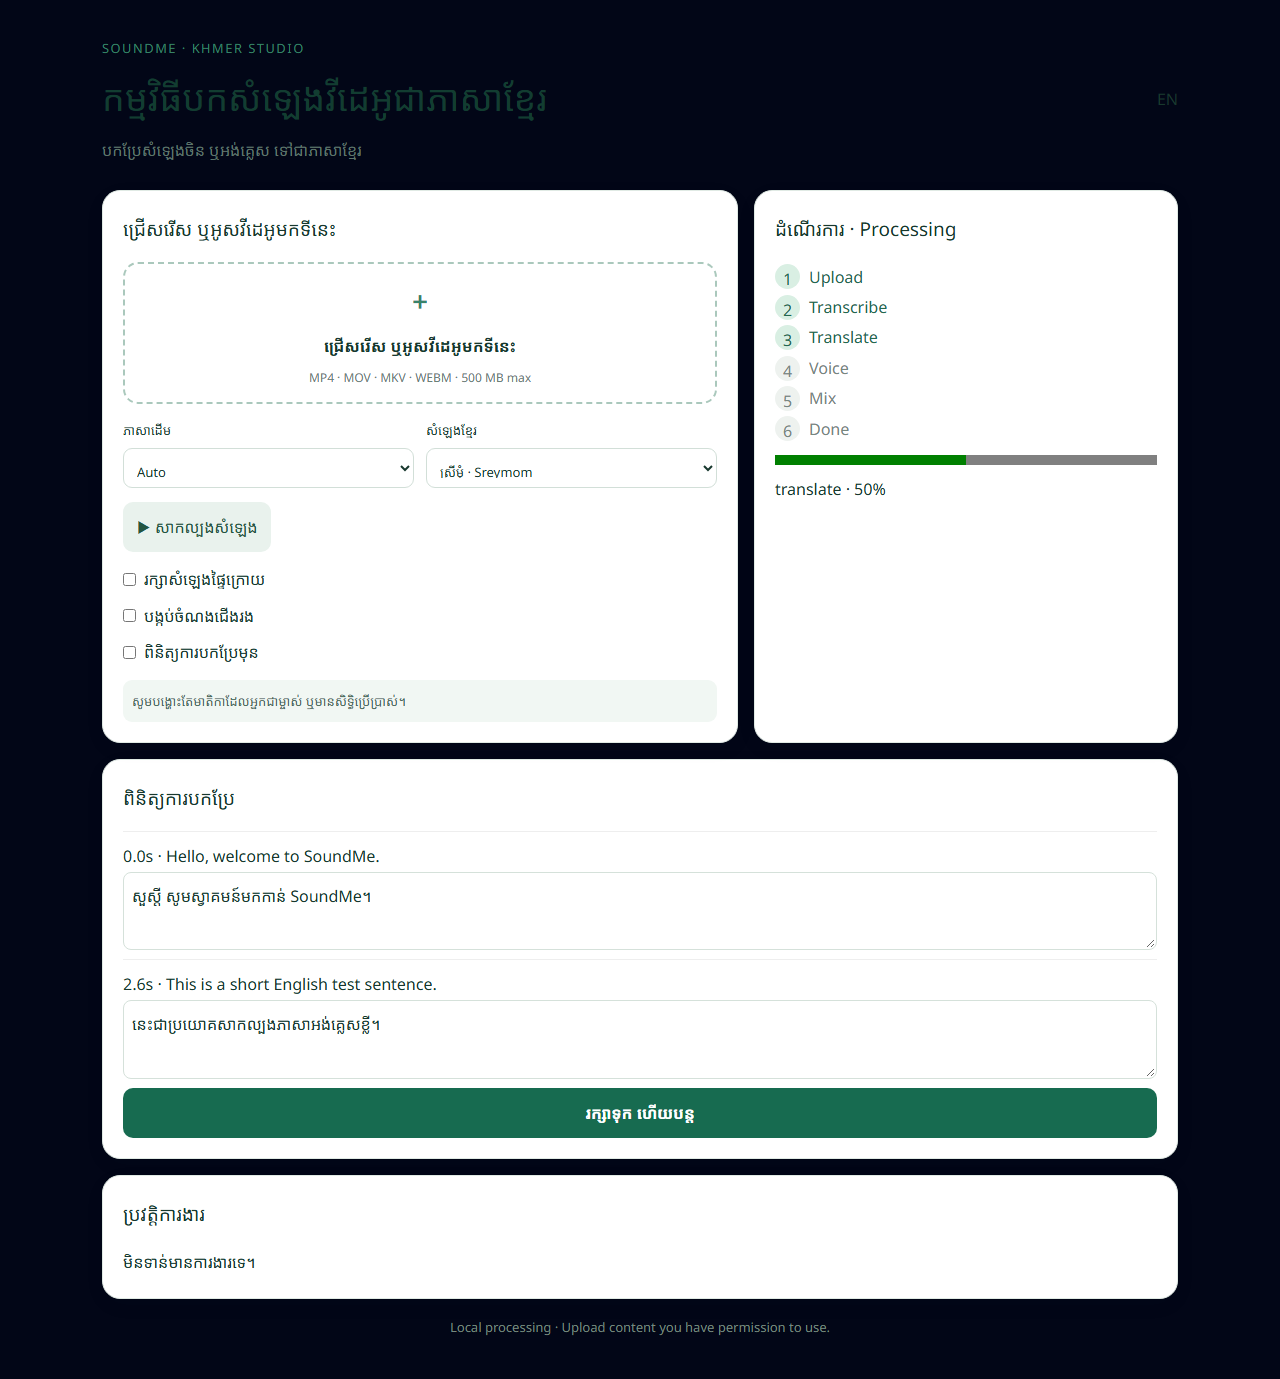
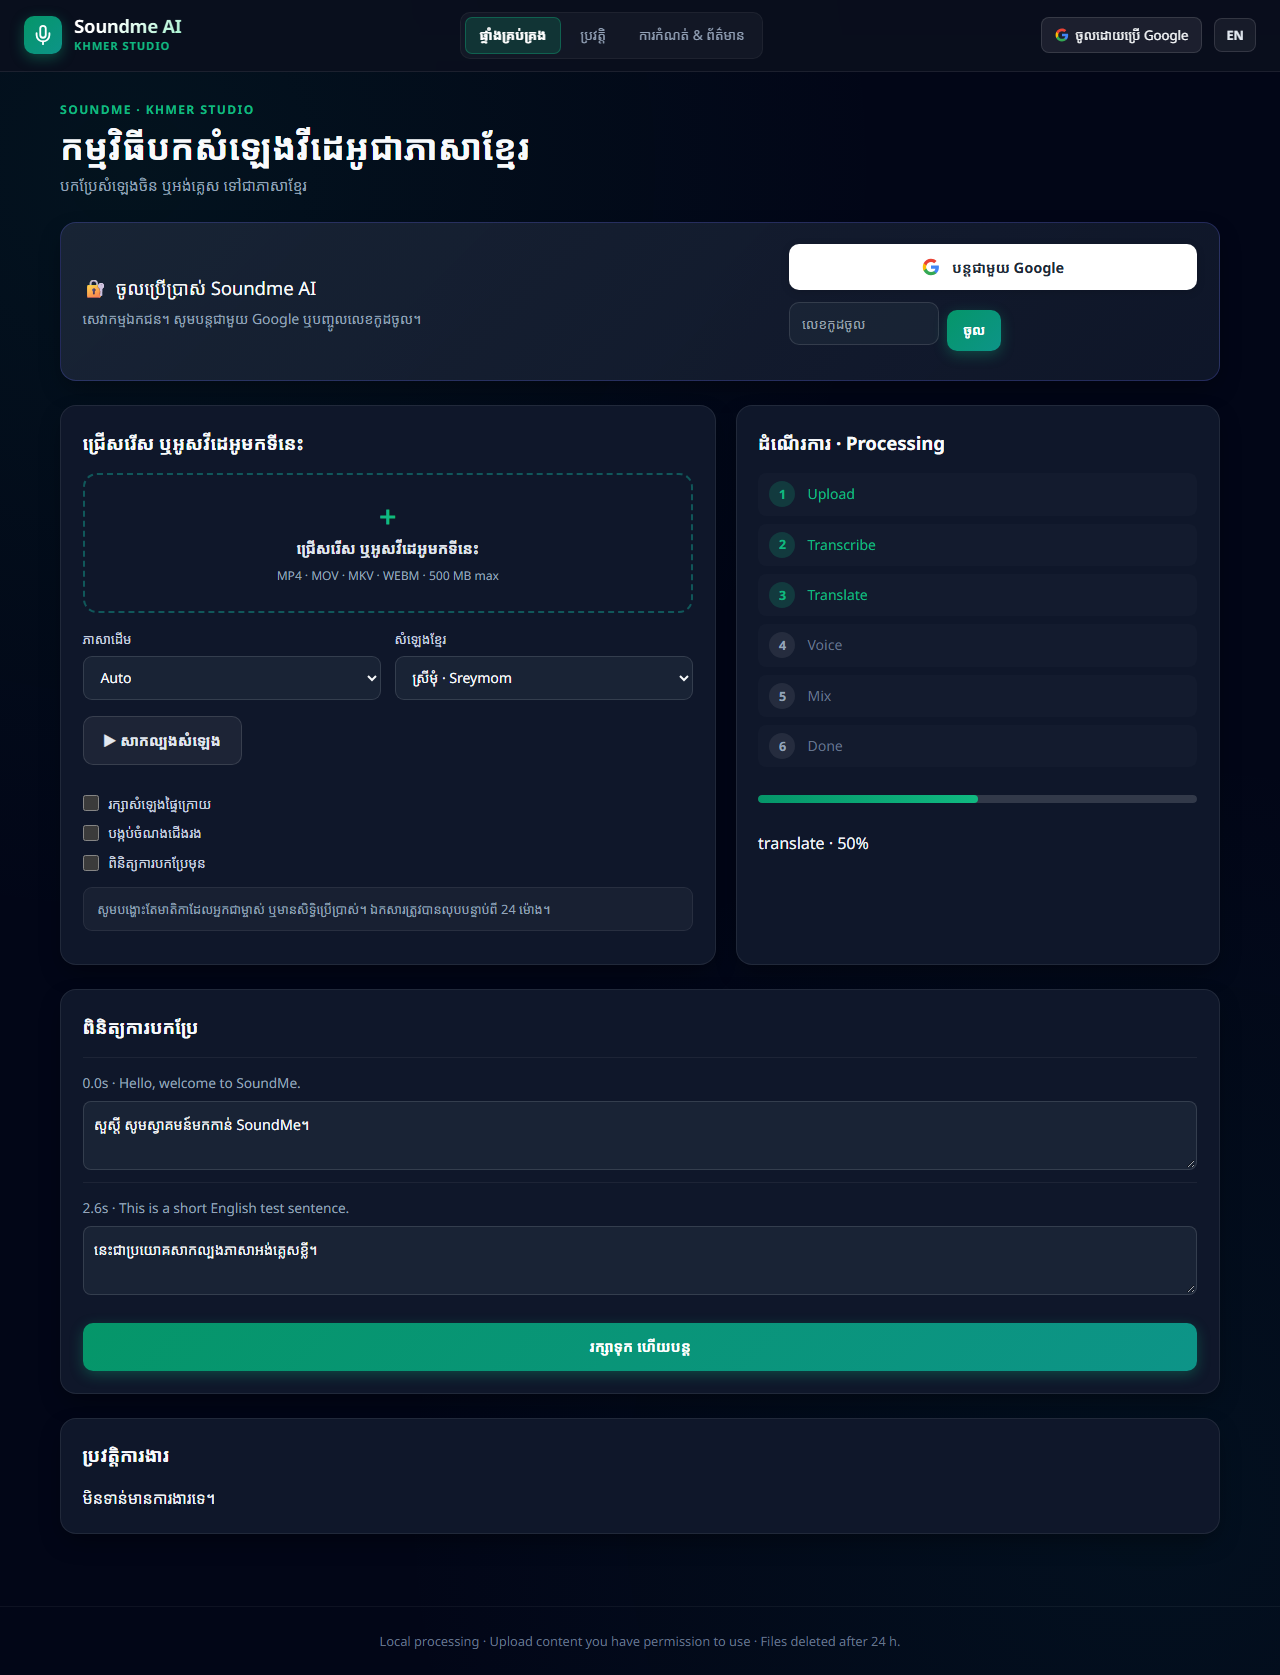
feat(frontend): UI updates, i18n strings, upload dropzone improvements, demo verification data

diff --git a/frontend/src/App.jsx b/frontend/src/App.jsx
@@ -5,6 +5,11 @@ const A = '/api';
 
 // ── Auth token management ──────────────────────────────────────────────────
 function getToken() {
+  // Desktop-local mode: never use a token inside the Electron desktop shell.
+  if (typeof window !== 'undefined' && window.soundmeDesktop?.isDesktop) {
+    try { localStorage.removeItem('soundme_token'); } catch (_) {}
+    return '';
+  }
   try {
     const params = new URLSearchParams(window.location?.search || '');
     const urlToken = params.get('token');
@@ -23,7 +28,8 @@ function getToken() {
 let TOKEN = getToken();
 
 function authHeaders(extra = {}) {
-  if (TOKEN) return { Authorization: `Bearer ${TOKEN}`, 'X-Access-Token': TOKEN, ...extra };
+  const isDesktop = typeof window !== 'undefined' && window.soundmeDesktop?.isDesktop;
+  if (TOKEN && !isDesktop) return { Authorization: `Bearer ${TOKEN}`, 'X-Access-Token': TOKEN, ...extra };
   return extra;
 }
 
@@ -124,9 +130,12 @@ export default function App() {
   const [submitting, setSubmitting] = useState(false);
   const [pendingUpload] = useState(() => localStorage.getItem('pendingUploadId'));
   const [userSession, setUserSession] = useState(null);
-  const [noToken, setNoToken] = useState(() => !TOKEN);
+  // Desktop-local mode: treat as always authenticated (noToken starts false).
+  // The /auth/me probe below also sets noToken=false when backend confirms desktop:local.
+  const [noToken, setNoToken] = useState(false);
   const [videoBlobUrls, setVideoBlobUrls] = useState({});
-  const [tokenInput, setTokenInput] = useState('');
+  const [maxUploadMb, setMaxUploadMb] = useState(() => Number(import.meta.env.VITE_MAX_UPLOAD_SIZE_MB || 2048));
+  const maxUploadBytes = maxUploadMb * 1024 * 1024;
 
   const t = (key) => strings[key]?.[en ? 'en' : 'km'] || key;
 
@@ -163,14 +172,17 @@ export default function App() {
         }
       })
       .catch(() => {});
+
+    fetch('/api/health')
+      .then((r) => r.json())
+      .then((d) => {
+        if (d && d.max_upload_mb) setMaxUploadMb(d.max_upload_mb);
+      })
+      .catch(() => {});
   }, [en]);
 
   function submitToken() {
-    const v = tokenInput.trim();
-    if (!v) return;
-    TOKEN = v;
-    localStorage.setItem('soundme_token', v);
-    setNoToken(false);
+    // No-op in desktop-local mode. Kept so existing test references don't break.
   }
 
   // ── Load active job and history on mount ───────────────────────────────────
@@ -180,7 +192,14 @@ export default function App() {
       J({ id });
     }
     authFetch(A + '/jobs')
-      .then((r) => r.json())
+      .then(async (r) => {
+        if (r.status === 401) {
+          // In desktop-local mode the backend never returns 401 for loopback requests.
+          // For web mode: silently return empty jobs rather than forcing a login screen.
+          return [];
+        }
+        return r.json();
+      })
       .then((data) => {
         if (Array.isArray(data)) {
           H(data);
@@ -234,9 +253,29 @@ export default function App() {
 
     const poll = () =>
       authFetch(`${A}/jobs/${job.id}`)
-        .then((r) => r.json())
-        .then(applyJob)
-        .catch(() => {});
+        .then((r) => {
+          const status = r && typeof r.status === 'number' ? r.status : undefined;
+          if (status === 404) {
+            // Job no longer exists (e.g. TTL cleanup or server restart).
+            // Stop the endless loading/polling loop instead of silently ignoring it.
+            if (localStorage.getItem('activeJob') === job.id) {
+              localStorage.removeItem('activeJob');
+            }
+            if (live) J(null);
+            return null;
+          }
+          if (status !== undefined && status >= 400) {
+            throw new Error(`HTTP ${status}`);
+          }
+          if (r && r.ok === false && status === undefined) {
+            throw new Error('Request failed');
+          }
+          return r.json().catch(() => { throw new Error('Invalid JSON response'); });
+        })
+        .then((d) => { if (d) applyJob(d); })
+        .catch((e) => {
+          if (live && e?.message) X(e.message);
+        });
 
     const startPolling = () => {
       if (timer || !live || finished) return;
@@ -316,10 +355,10 @@ export default function App() {
       X(en ? 'Choose an MP4, MOV, MKV, AVI, or WEBM video.' : (t('invalid_video') + ' (Choose an MP4, MOV, MKV, AVI, or WEBM video.)'));
       return;
     }
-    if (f.size > 500 * 1024 * 1024) {
+    if (f.size > maxUploadBytes) {
       let actualMb = (f.size / (1024 * 1024)).toFixed(1);
-      let kmMsg = `ទំហំឯកសារ ${actualMb} MB លើសពីកម្រិតកំណត់ 500 MB។`;
-      let enMsg = `File size (${actualMb} MB) exceeds the 500 MB limit.`;
+      let kmMsg = `ទំហំឯកសារ ${actualMb} MB លើសពីកម្រិតកំណត់ ${maxUploadMb} MB។`;
+      let enMsg = `File size (${actualMb} MB) exceeds the ${maxUploadMb} MB limit.`;
       X(`${kmMsg} (${enMsg})`);
       return;
     }
@@ -408,15 +447,13 @@ export default function App() {
 
   function upload() {
     if (submitting) return;
-    if (noToken && !userSession?.authenticated) {
-      X(en ? 'Please sign in with Google or enter an access code first.' : 'សូមចូលដោយប្រើ Google ឬបញ្ចូលលេខកូដចូលជាមុនសិន។');
-      return;
-    }
+    // Desktop-local mode: always proceed (noToken is always false).
+    // Web mode: the /auth/me probe ensures noToken is false when authenticated.
     if (!file || file.size === 0) { X(t('file_empty')); return; }
-    if (file.size > 500 * 1024 * 1024) {
+    if (file.size > maxUploadBytes) {
       let actualMb = (file.size / (1024 * 1024)).toFixed(1);
-      let kmMsg = `ទំហំឯកសារ ${actualMb} MB លើសពីកម្រិតកំណត់ 500 MB។`;
-      let enMsg = `File size (${actualMb} MB) exceeds the 500 MB limit.`;
+      let kmMsg = `ទំហំឯកសារ ${actualMb} MB លើសពីកម្រិតកំណត់ ${maxUploadMb} MB។`;
+      let enMsg = `File size (${actualMb} MB) exceeds the ${maxUploadMb} MB limit.`;
       X(`${kmMsg} (${enMsg})`);
       return;
     }
@@ -434,7 +471,9 @@ export default function App() {
     x.open('POST', A + '/jobs');
     x.withCredentials = true;
     x.setRequestHeader('Idempotency-Key', idempotencyKey);
-    if (TOKEN) x.setRequestHeader('Authorization', `Bearer ${TOKEN}`);
+    if (TOKEN && !(typeof window !== 'undefined' && window.soundmeDesktop?.isDesktop)) {
+      x.setRequestHeader('Authorization', `Bearer ${TOKEN}`);
+    }
     x.upload.onprogress = (e) => e.lengthComputable && P(Math.round((e.loaded / e.total) * 100));
     x.onload = () => {
       setSubmitting(false);
@@ -539,39 +578,9 @@ export default function App() {
             <span className="user-badge" title={userSession.google_email}>
               👤 {userSession.google_email}
             </span>
-          ) : (
-            <a
-              href="/auth/google"
-              className="google-nav-btn"
-              style={{
-                textDecoration: 'none',
-                display: 'flex',
-                alignItems: 'center',
-                gap: '0.4rem',
-                color: '#f8fafc',
-                background: 'rgba(255, 255, 255, 0.08)',
-                padding: '0.4rem 0.8rem',
-                borderRadius: '8px',
-                fontSize: '0.825rem',
-                border: '1px solid rgba(255, 255, 255, 0.12)',
-              }}
-            >
-              <svg width="14" height="14" viewBox="0 0 24 24">
-                <path fill="#4285F4" d="M22.56 12.25c0-.78-.07-1.53-.2-2.25H12v4.26h5.92c-.26 1.37-1.04 2.53-2.21 3.31v2.77h3.57c2.08-1.92 3.28-4.74 3.28-8.09z" />
-                <path fill="#34A853" d="M12 23c2.97 0 5.46-.98 7.28-2.66l-3.57-2.77c-.98.66-2.23 1.06-3.71 1.06-2.86 0-5.29-1.93-6.16-4.53H2.18v2.84C3.99 20.53 7.7 23 12 23z" />
-                <path fill="#FBBC05" d="M5.84 14.09c-.22-.66-.35-1.36-.35-2.09s.13-1.43.35-2.09V7.06H2.18C1.43 8.55 1 10.22 1 12s.43 3.45 1.18 4.94l2.85-2.22.81-.63z" />
-                <path fill="#EA4335" d="M12 5.38c1.62 0 3.06.56 4.21 1.64l3.15-3.15C17.45 2.09 14.97 1 12 1 7.7 1 3.99 3.47 2.18 7.06l3.66 2.84c.87-2.6 3.3-4.52 6.16-4.52z" />
-              </svg>
-              <span>{en ? 'Continue with Google' : 'ចូលដោយប្រើ Google'}</span>
-            </a>
-          )}
+          ) : null}
 
           <button className="lang-btn" onClick={() => E(!en)}>{en ? 'ខ្មែរ' : 'EN'}</button>
-          {(!noToken || userSession?.authenticated) && (
-            <button className="signout-btn" onClick={logout} title={en ? 'Sign out' : 'ចាកចេញ'}>
-              {en ? 'Sign out' : 'ចាកចេញ'}
-            </button>
-          )}
         </div>
       </nav>
 
@@ -585,51 +594,7 @@ export default function App() {
           </div>
         </header>
 
-        {/* ── Prominent Google Login Banner (when not authenticated) ──── */}
-        {noToken && !userSession?.authenticated && (
-          <section className="login-banner card card-full" style={{ marginBottom: '1.5rem', background: 'linear-gradient(135deg, rgba(30, 41, 59, 0.8), rgba(15, 23, 42, 0.95))', borderColor: 'rgba(99, 102, 241, 0.25)' }}>
-            <div style={{ display: 'flex', flexWrap: 'wrap', alignItems: 'center', justifyContent: 'space-between', gap: '1.25rem' }}>
-              <div>
-                <h3 style={{ margin: '0 0 0.35rem 0', fontSize: '1.15rem', color: '#f8fafc', display: 'flex', alignItems: 'center', gap: '0.5rem' }}>
-                  <span>🔐</span> {en ? 'Sign in to Soundme AI' : 'ចូលប្រើប្រាស់ Soundme AI'}
-                </h3>
-                <p style={{ margin: 0, fontSize: '0.875rem', color: '#94a3b8' }}>
-                  {en
-                    ? 'Private access. Continue with Google or enter your access code.'
-                    : 'សេវាកម្មឯកជន។ សូមបន្តជាមួយ Google ឬបញ្ចូលលេខកូដចូល។'}
-                </p>
-              </div>
-
-              <div style={{ display: 'flex', flexWrap: 'wrap', alignItems: 'center', gap: '0.75rem' }}>
-                <a href="/auth/google" className="google-login-btn" style={{ padding: '0.65rem 1.25rem', fontSize: '0.9rem' }}>
-                  <svg width="18" height="18" viewBox="0 0 24 24">
-                    <path fill="#4285F4" d="M22.56 12.25c0-.78-.07-1.53-.2-2.25H12v4.26h5.92c-.26 1.37-1.04 2.53-2.21 3.31v2.77h3.57c2.08-1.92 3.28-4.74 3.28-8.09z" />
-                    <path fill="#34A853" d="M12 23c2.97 0 5.46-.98 7.28-2.66l-3.57-2.77c-.98.66-2.23 1.06-3.71 1.06-2.86 0-5.29-1.93-6.16-4.53H2.18v2.84C3.99 20.53 7.7 23 12 23z" />
-                    <path fill="#FBBC05" d="M5.84 14.09c-.22-.66-.35-1.36-.35-2.09s.13-1.43.35-2.09V7.06H2.18C1.43 8.55 1 10.22 1 12s.43 3.45 1.18 4.94l2.85-2.22.81-.63z" />
-                    <path fill="#EA4335" d="M12 5.38c1.62 0 3.06.56 4.21 1.64l3.15-3.15C17.45 2.09 14.97 1 12 1 7.7 1 3.99 3.47 2.18 7.06l3.66 2.84c.87-2.6 3.3-4.52 6.16-4.52z" />
-                  </svg>
-                  <span>{en ? 'Continue with Google' : 'បន្តជាមួយ Google'}</span>
-                </a>
-
-                <div style={{ display: 'flex', alignItems: 'center', gap: '0.5rem' }}>
-                  <input
-                    type="password"
-                    className="login-input"
-                    placeholder={en ? 'Access code' : 'លេខកូដចូល'}
-                    value={tokenInput}
-                    onChange={(e) => setTokenInput(e.target.value)}
-                    onKeyDown={(e) => e.key === 'Enter' && submitToken()}
-                    style={{ width: '150px', padding: '0.6rem 0.75rem', fontSize: '0.85rem' }}
-                  />
-                  <button className="primary" onClick={submitToken} style={{ padding: '0.6rem 1rem', fontSize: '0.85rem' }}>
-                    {en ? 'Enter' : 'ចូល'}
-                  </button>
-                </div>
-              </div>
-            </div>
-            {err && <p className="error" style={{ marginTop: '0.75rem' }}>{err}</p>}
-          </section>
-        )}
+        {/* Login banner removed: desktop-local mode authenticates automatically via /auth/me. */}
 
         {activeTab === 'workspace' && (
           <>
@@ -652,7 +617,7 @@ export default function App() {
                   <input type="file" accept="video/*" aria-label="Choose video" onChange={(e) => pick(e.target.files[0])} />
                   <b>＋</b>
                   <strong>{file?.name || t('upload_heading')}</strong>
-                  <span>MP4 · MOV · MKV · WEBM · 500 MB max</span>
+                  <span>MP4 · MOV · MKV · WEBM · {maxUploadMb} MB max</span>
                 </label>
 
                 {file && file.size > 0 && typeof URL.createObjectURL === 'function' && (
@@ -774,15 +739,30 @@ export default function App() {
             {job?.status === 'awaiting_review' && (
               <section className="card card-full">
                 <h2>{t('review_heading')}</h2>
-                {rows.map((r, i) => (
-                  <label className="review" key={r.id}>
-                    <span style={{ color: '#94a3b8', fontSize: '0.85rem' }}>{r.start.toFixed(1)}s · {r.source_text}</span>
-                    <textarea
-                      value={r.text_km}
-                      onChange={(e) => Q(rows.map((x, n) => (n === i ? { ...x, text_km: e.target.value } : x)))}
-                    />
-                  </label>
-                ))}
+                {job?.error?.message_en && (
+                  <div className="alert alert-warning" style={{ margin: '0.5rem 0 1rem', padding: '0.75rem', background: '#2d1800', border: '1px solid #f59e0b', borderRadius: '8px', color: '#fef3c7' }}>
+                    <strong>{en ? 'Timing Review:' : 'ការពិនិត្យពេលវេលា៖'}</strong> {en ? job.error.message_en : (job.error.message_km || job.error.message_en)}
+                  </div>
+                )}
+                {rows.map((r, i) => {
+                  const stat = (job?.timing_review?.fit_stats || []).find((s) => s.segment_id === r.id);
+                  return (
+                    <label className="review" key={r.id}>
+                      <div style={{ display: 'flex', justifyContent: 'space-between', alignItems: 'center', marginBottom: '0.25rem' }}>
+                        <span style={{ color: '#94a3b8', fontSize: '0.85rem' }}>{r.start.toFixed(1)}s – {r.end.toFixed(1)}s · {r.source_text}</span>
+                        {stat && (
+                          <span style={{ fontSize: '0.75rem', color: stat.review_required ? '#f87171' : '#38bdf8', background: stat.review_required ? 'rgba(239, 68, 68, 0.15)' : 'rgba(56, 189, 248, 0.15)', padding: '2px 8px', borderRadius: '4px' }}>
+                            {en ? `Slot: ${stat.target_duration.toFixed(2)}s | Audio: ${stat.raw_duration.toFixed(2)}s | ${stat.recovery_action || (stat.review_required ? 'Review' : 'OK')}` : `ពេលដើម: ${stat.target_duration.toFixed(2)}s | សំឡេង: ${stat.raw_duration.toFixed(2)}s`}
+                          </span>
+                        )}
+                      </div>
+                      <textarea
+                        value={r.text_km}
+                        onChange={(e) => Q(rows.map((x, n) => (n === i ? { ...x, text_km: e.target.value } : x)))}
+                      />
+                    </label>
+                  );
+                })}
                 <button className="primary" onClick={save} style={{ marginTop: '1rem' }}>
                   {t('save_and_continue')}
                 </button>

diff --git a/frontend/src/components/UploadDropzone.jsx b/frontend/src/components/UploadDropzone.jsx
@@ -39,7 +39,7 @@ export default function UploadDropzone({ file, onFileSelect, onDrop }) {
 
         <div className="text-lg font-semibold text-white">Drop a video here or click to browse</div>
         <div className="mt-2 text-sm text-slate-400">
-          Supported: {supportedFormats.join(', ')} • Max 500 MB / 30 min
+          Supported: {supportedFormats.join(', ')} • Max 2048 MB
         </div>
 
         {file && (
